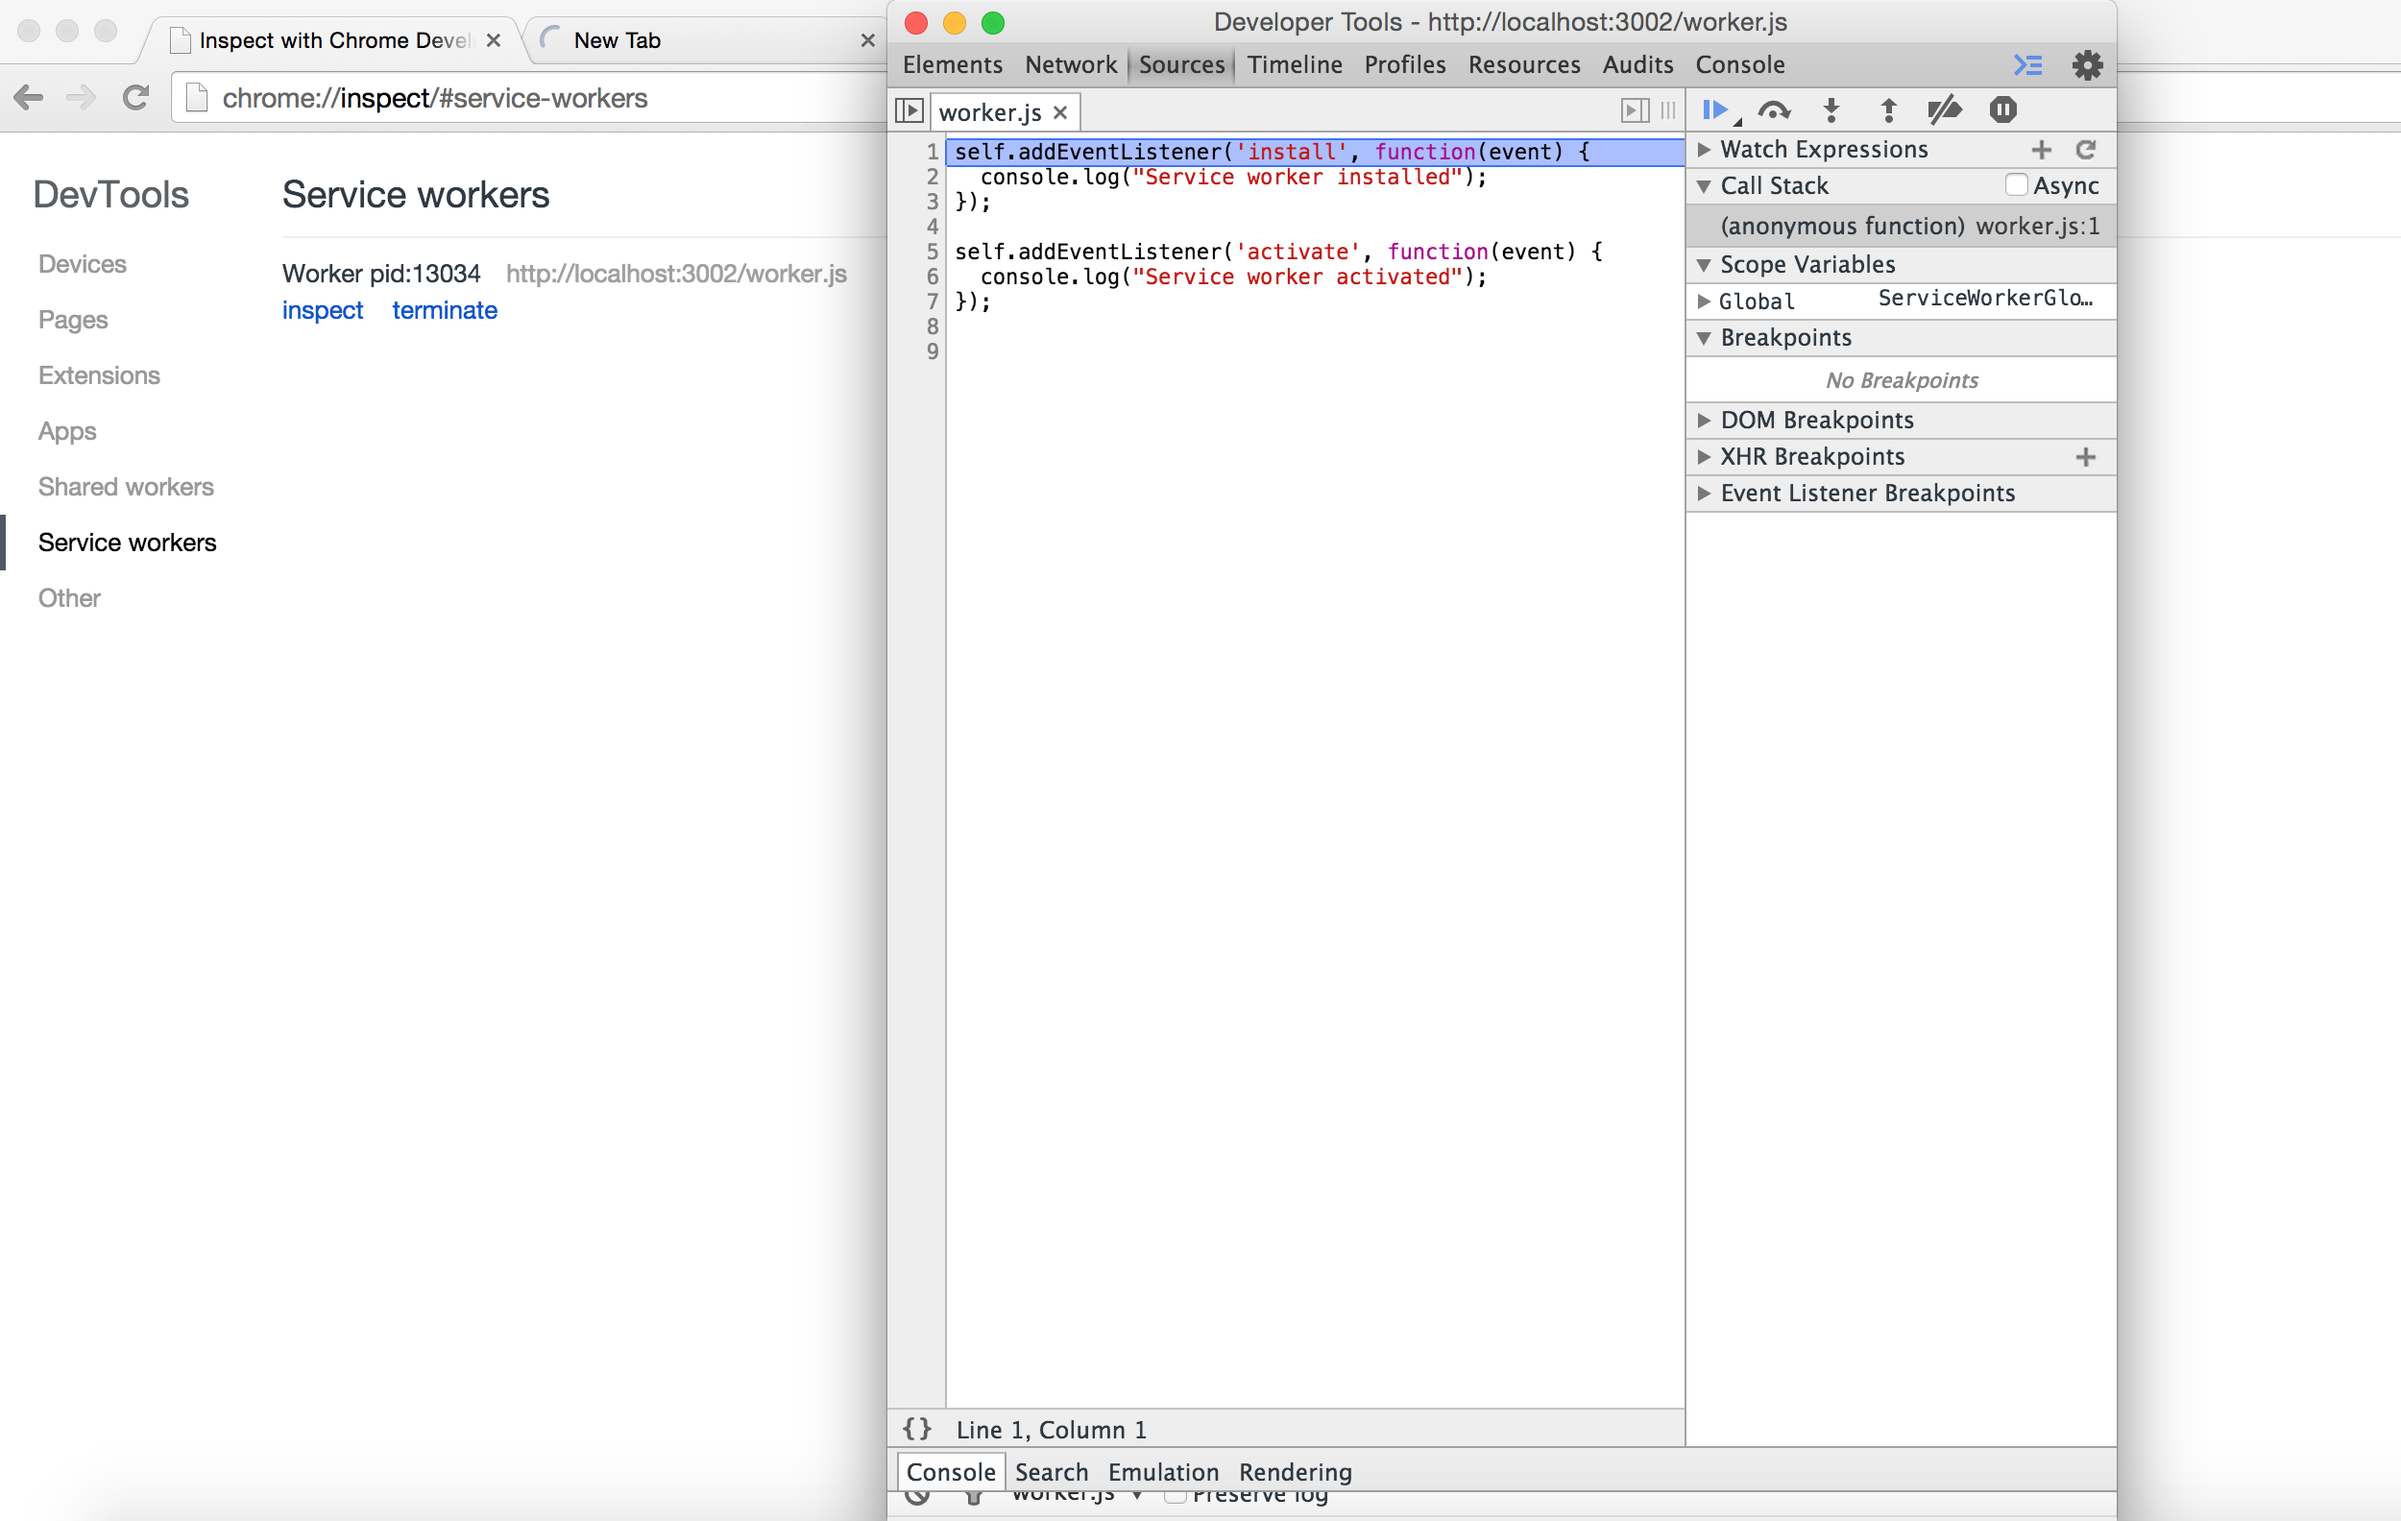
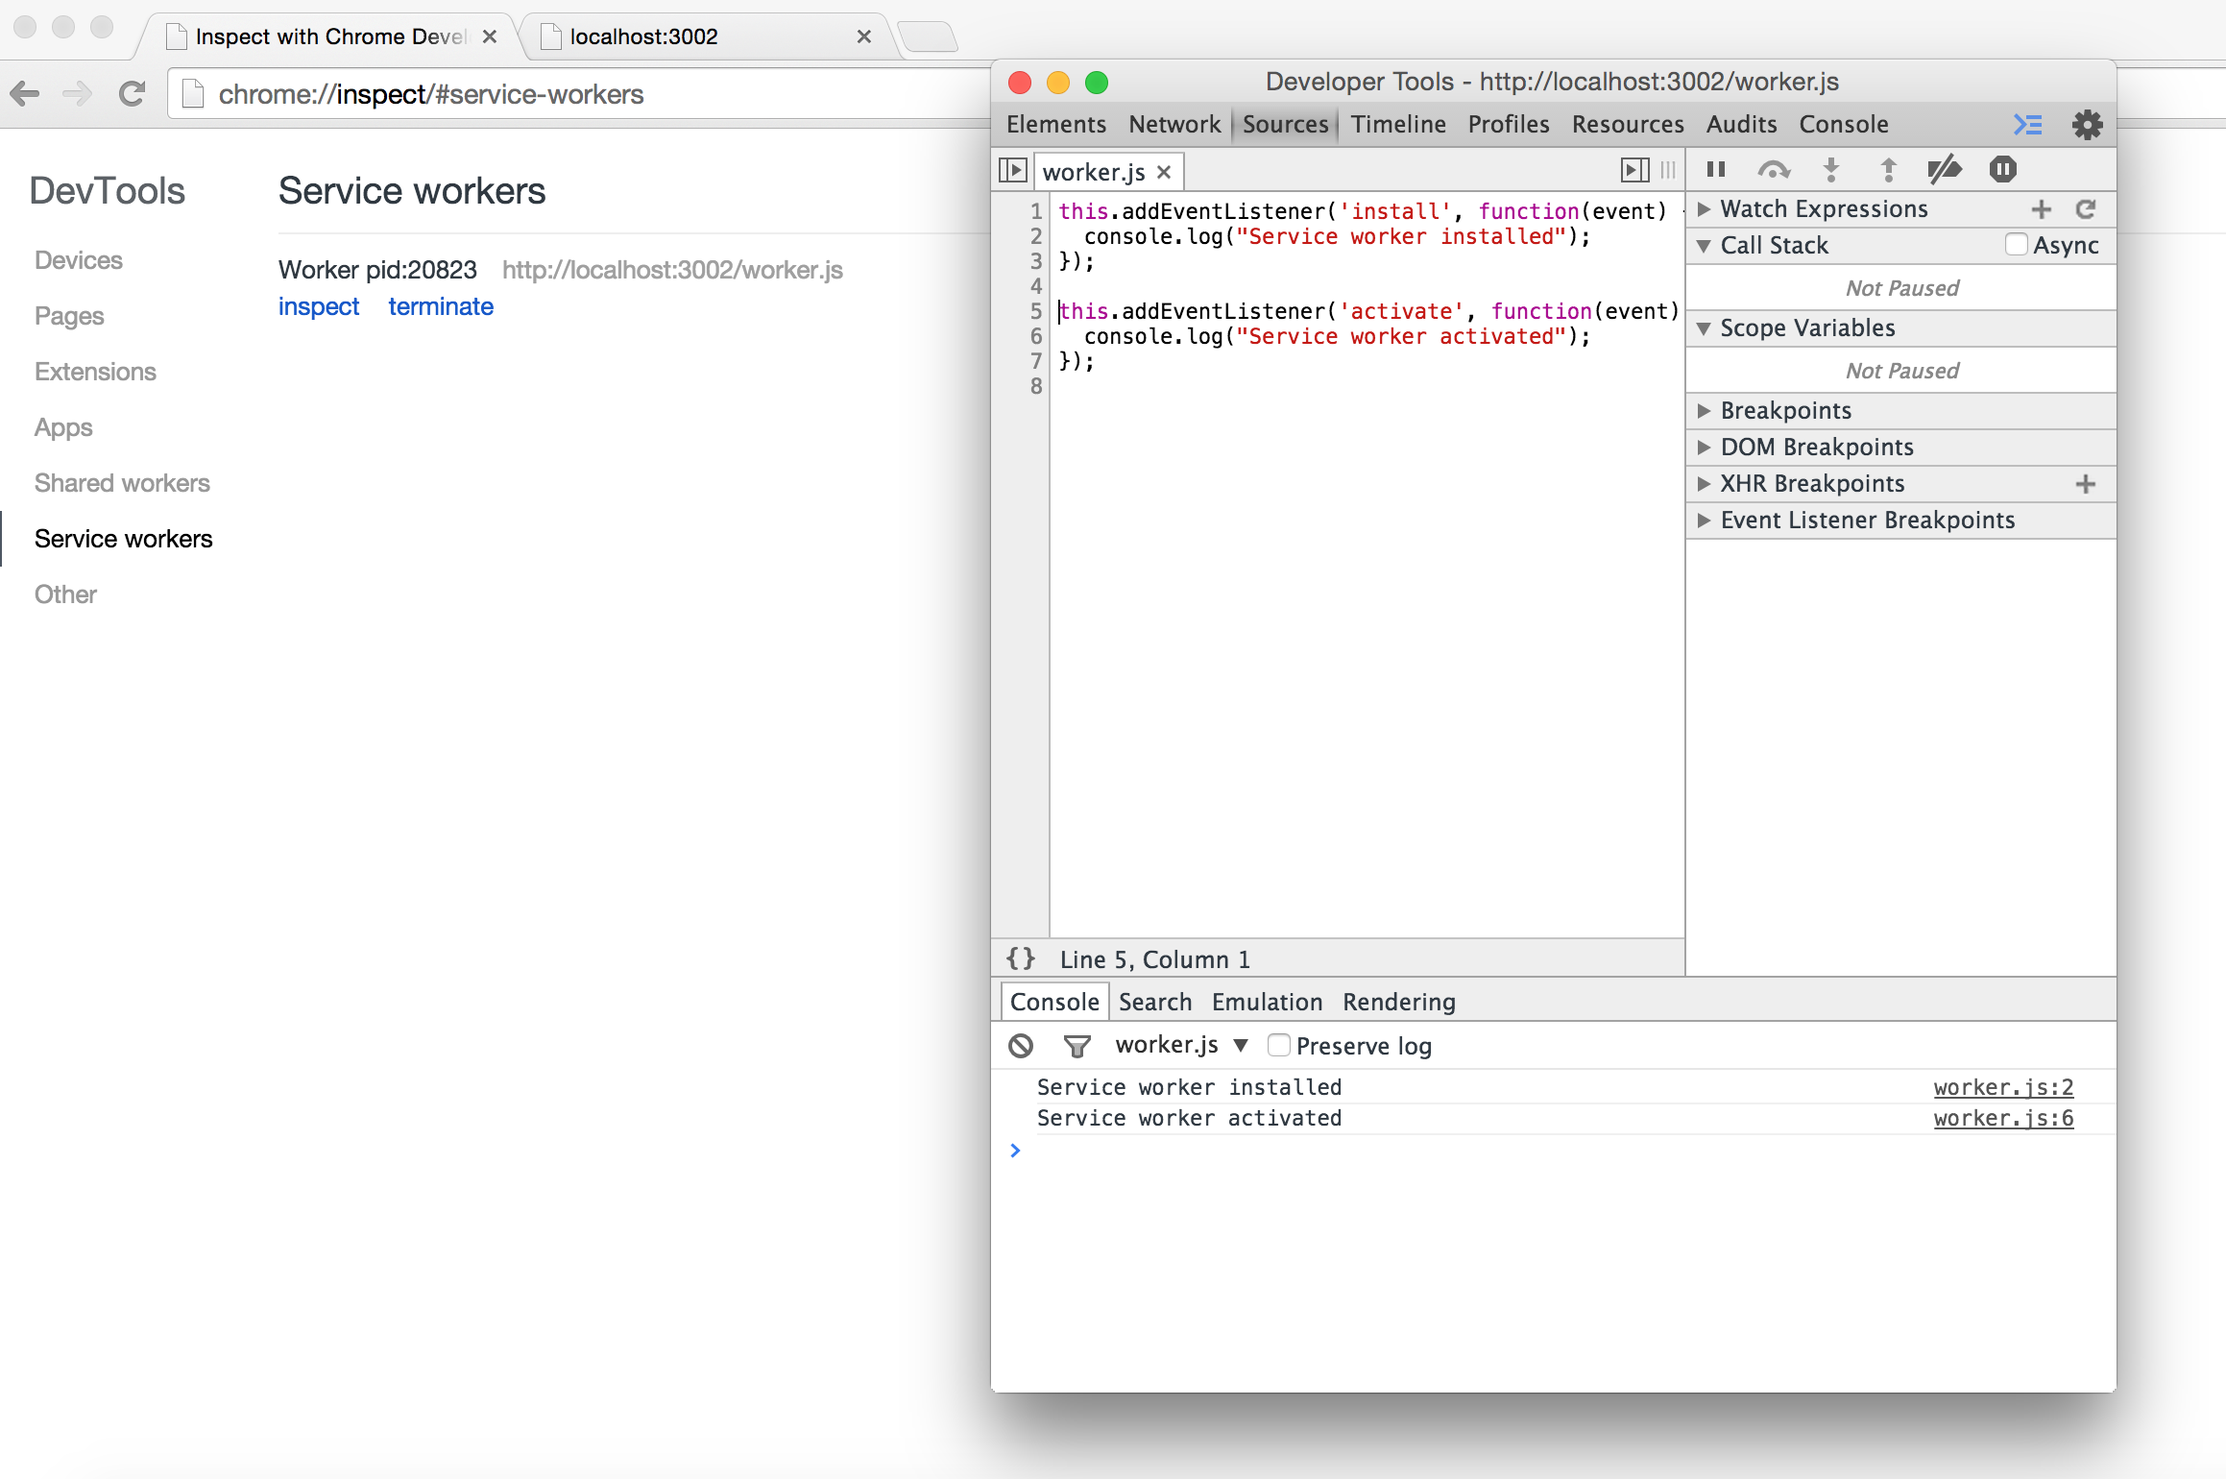
Better pic of developer tools, minor improvements

diff --git a/index.html b/index.html
@@ -369,8 +369,8 @@ if(event.webkitCompassHeading) {
     <script type="text/template">
         ## Service Worker
         * Programmatically caching responses
-        * Push messages
-        * Background sync
+        * Push messaging
+        * Background syncinc
     </script>
 </section>
 
@@ -398,7 +398,7 @@ if(event.webkitCompassHeading) {
 }); </code> </pre>
 
     <p>In worker.js</p>
-    <pre><code class="javascript">self.addEventListener('install', function(event) {
+    <pre><code class="javascript">this.addEventListener('install', function(event) {
     console.log("Service worker installed!);
 });</code> </pre>
 
@@ -414,7 +414,7 @@ if(event.webkitCompassHeading) {
 
 <section >
     <h3>Network Intercepting</h3>
-    <p>In worker.js</p>
+    <p>In the page</p>
     <pre><code class="html">&lt;html>
     &lt;body>
         You should get a different response when you refresh
@@ -431,7 +431,7 @@ if(event.webkitCompassHeading) {
 
 <section >
     <p>In worker.js</p>
-    <pre><code class="javascript">self.addEventListener('fetch', function(event) {
+    <pre><code class="javascript">this.addEventListener('fetch', function(event) {
     console.log(event.request);
     event.respondWith(new Response("Hello world!"));
 }); </code> </pre>
@@ -454,7 +454,7 @@ if(event.webkitCompassHeading) {
     <p>Service Worker comes with a caching API.</p>
 
     <p>In worker.js</p>
-    <pre><code class="javascript">self.addEventListener('install', function(event) {
+    <pre><code class="javascript">this.addEventListener('install', function(event) {
     event.waitUntil(
         caches.create('myapp-static-v1').then(function(cache) {
             return cache.addAll([
@@ -467,7 +467,7 @@ if(event.webkitCompassHeading) {
     );
 });
 
-self.addEventListener('fetch', function(event) {
+this.addEventListener('fetch', function(event) {
     event.respondWith(
         caches.match(event.request).then(function(response) {
             return response || fetch(event.request);
@@ -576,7 +576,7 @@ self.addEventListener('fetch', function(event) {
     <script type="text/template">
         * Shake gestures
         * Caching
-        * Push Notifications
+        * Push notifications
         * Background syncing
 
         ## Your web app can do all of that!
